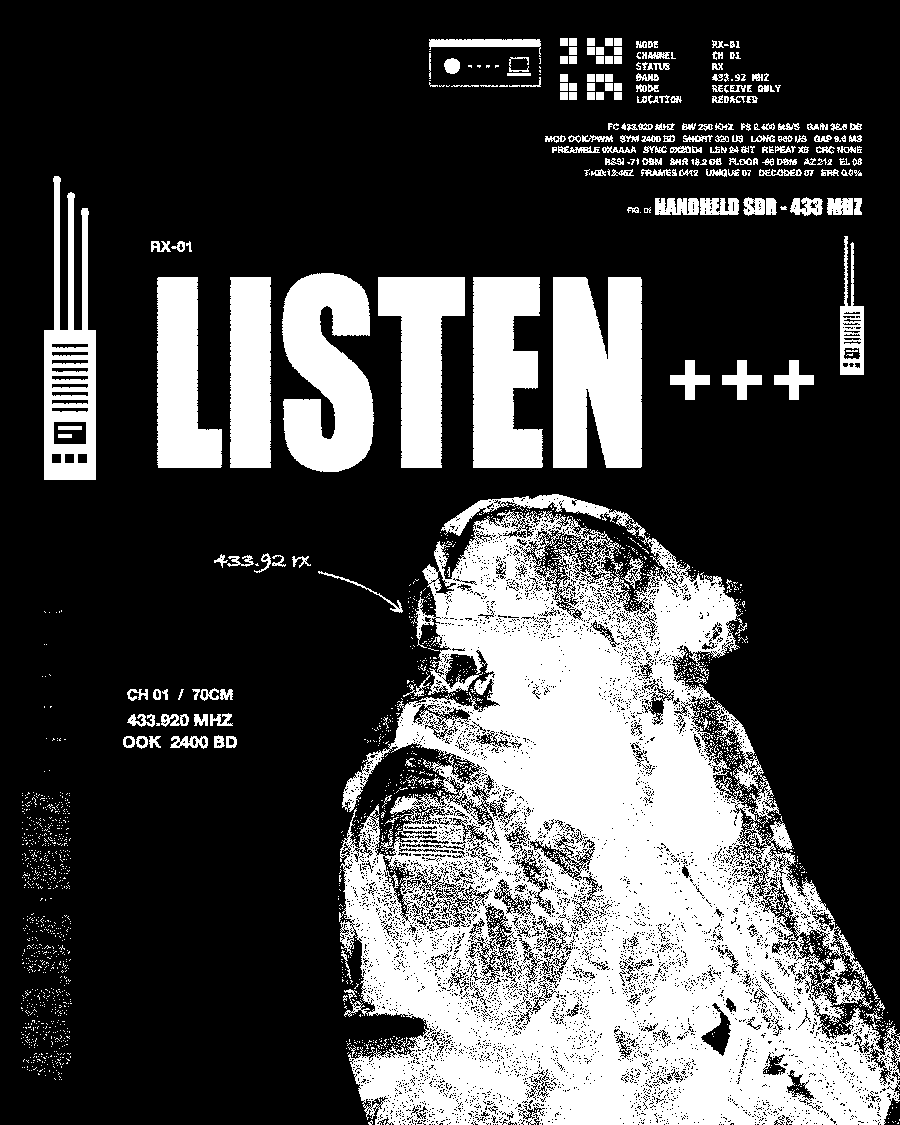
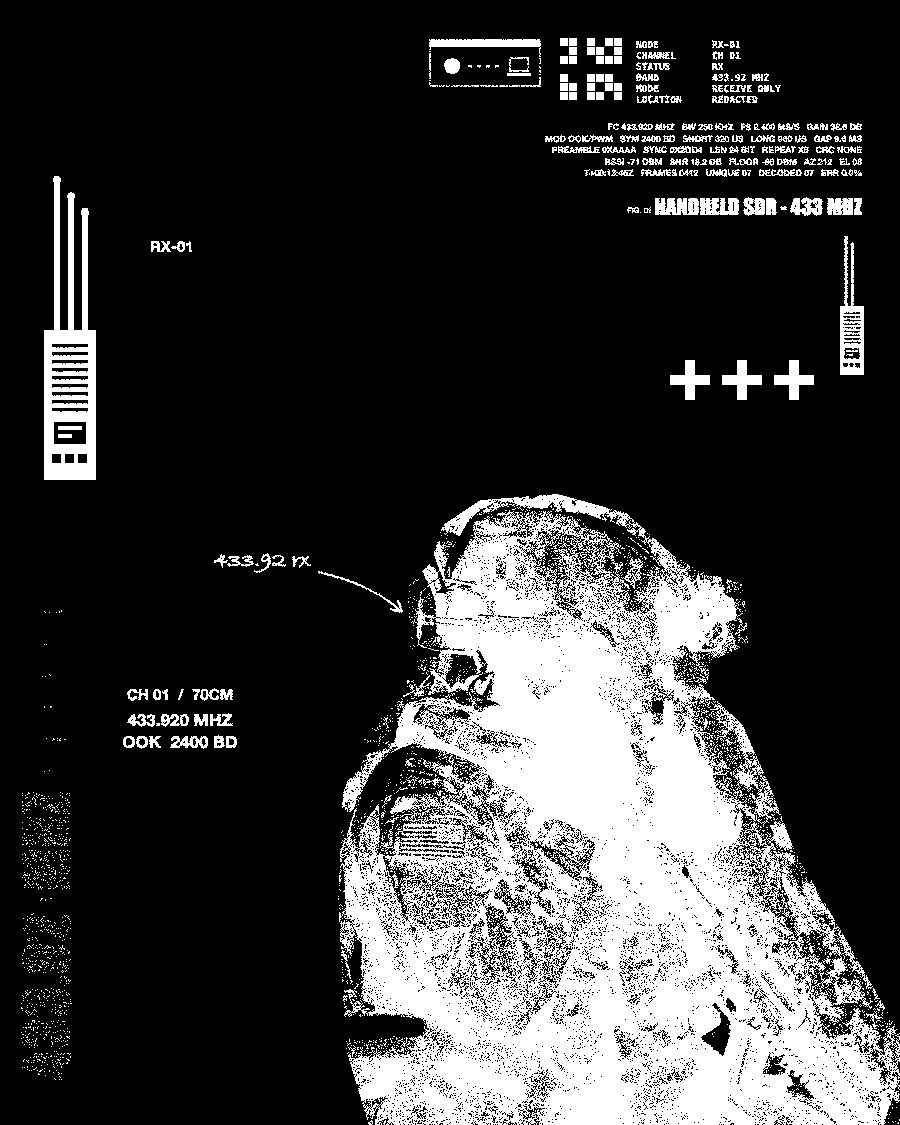
Drop ENIGMA and NOISE, quieter LISTEN and MAINFRAME

Changed region(s): [[0.1556, 0.2178, 0.7156, 0.4356]]

diff --git a/_sass/_vibe-sides.scss b/_sass/_vibe-sides.scss
@@ -154,12 +154,10 @@ html.vibe-wait .vibe-layer { opacity: 0; }
   .vibe-p--qr        { --m: url("../../images/vibe/hack-qr.svg?v=#{$vibe-v}");              --ar: 1; }
   /* Poster prints, laid on the paper scraps (tactical-poster language: heavy caps, +++, microtext). */
   .vibe-poster--sigint { --m: url("../../images/vibe/poster-sigint.svg?v=#{$vibe-v}"); --ar: 300 / 380; }
-  .vibe-poster--noise  { --m: url("../../images/vibe/poster-noise.svg?v=#{$vibe-v}");  --ar: 340 / 250; }
   .vibe-poster--2026   { --m: url("../../images/vibe/poster-2026.svg?v=#{$vibe-v}");   --ar: 340 / 250; }
   /* Accent-mark layers (stars, X marks, dials, +++): same box and colour as the piece underneath. */
   .vibe-red { --b: 0px; }
   .vibe-red.vibe-poster--sigint { --m: url("../../images/vibe/poster-sigint-red.svg?v=#{$vibe-v}"); }
-  .vibe-red.vibe-poster--noise  { --m: url("../../images/vibe/poster-noise-red.svg?v=#{$vibe-v}"); }
   .vibe-red.vibe-poster--2026   { --m: url("../../images/vibe/poster-2026-red.svg?v=#{$vibe-v}"); }
   .vibe-red.vibe-p--halftone    { --m: url("../../images/vibe/halftone-dots-red.svg?v=#{$vibe-v}"); }
   .vibe-red.vibe-p--notes       { --m: url("../../images/vibe/notes-scrawl-red.svg?v=#{$vibe-v}"); }
@@ -238,7 +236,6 @@ html.vibe-wait .vibe-layer { opacity: 0; }
   .vibe-ph--0day      { --m: url("../../images/vibe/poster-0day.png?v=#{$vibe-v}"); }
   .vibe-ph--cipher    { --m: url("../../images/vibe/poster-cipher.png?v=#{$vibe-v}"); }
   .vibe-ph--pivot     { --m: url("../../images/vibe/poster-pivot.png?v=#{$vibe-v}"); }
-  .vibe-ph--enigma    { --m: url("../../images/vibe/poster-enigma.png?v=#{$vibe-v}"); }
   .vibe-ph--mainframe { --m: url("../../images/vibe/poster-mainframe.png?v=#{$vibe-v}"); }
   .vibe-ph--core      { --m: url("../../images/vibe/poster-core.png?v=#{$vibe-v}"); }
   .vibe-ph--watched   { --m: url("../../images/vibe/poster-watched.png?v=#{$vibe-v}"); }
@@ -251,7 +248,7 @@ html.vibe-wait .vibe-layer { opacity: 0; }
   .vibe-slot--r2 { --sx: calc(95% - var(--sw)); --sy: clamp(1460px, 69%, 3500px); --r: -1.5deg; }
   .vibe-slot--l3 { --sx: 3%;                    --sy: clamp(1540px, 73%, 3700px); --r: 1.5deg; }
   /* Extra slots for long pages (certificates, guides): only once the page is tall enough (below). */
-  .vibe-slot--la { --sx: 3%;                    --sy: 41.5%; --r: -1.5deg; }
+  .vibe-slot--la { --sx: 5%;                    --sy: clamp(1100px, 52%, 3400px); --r: -1.5deg; }   /* NOISE's old spot; higher on long pages */
   .vibe-slot--lb { --sx: 4%;                    --sy: 85%; --r: 1deg; }
   .vibe-slot--ra { --sx: calc(96% - var(--sw)); --sy: 19%; --r: -2deg; }
   .vibe-slot--rb { --sx: calc(97% - var(--sw)); --sy: 54%; --r: 1.5deg; }
@@ -282,7 +279,6 @@ html.vibe-wait .vibe-layer { opacity: 0; }
     .vibe-ph--dish     { --x: -34%; --y: -12%; --w: 92%; --o: 0.22; --b: 0px; --r: -5deg; }
     .vibe-p--monitors  { --x: 6%;   --y: 0%;  --w: 68%; --r: -2deg; }
     .vibe-p--scrap2    { --x: 30%;  --y: 50%; --w: 72%; --r: 5deg; }
-    .vibe-poster--noise  { --x: 35%; --y: 53%; --w: 62%; --r: 5deg; }
     .vibe-p--radio     { --x: 46%;  --y: 40%; --w: 44%; --r: 7deg; }
     .vibe-p--tape      { --x: 50%;  --y: 39%; --w: 34%; --r: -14deg; }
     .vibe-p--hexdump   { --x: -4%;  --y: 80%; --w: 68%; --r: -4deg; }
@@ -397,9 +393,16 @@ html.vibe-wait .vibe-layer { opacity: 0; }
 
 @container vibe (min-width: 1680px) and (min-height: 2900px) {
   .vibe-slot--long { display: block !important; }
+  .vibe-slot--la { --sy: 41.5%; }
   /* sketches that sit under the long-page posters (measured on a certificate page at 1920px) */
   .vibe-kit--fieldkit, .vibe-kit-tape--fieldkit, .vibe-sec--fingerprint, .vibe-cluster--r1 .vibe-p--qr, .vibe-cluster--r1 .vibe-p--tape2,
   .vibe-x--eye, .vibe-sec--padlock, .vibe-cluster--r2 .vibe-p--pcb, .vibe-cluster--r2 .vibe-p--lockpick { display: none !important; }
+}
+
+/* Short pages: the left-middle poster sits in NOISE's old spot; clear the cluster under it. */
+@container vibe (min-width: 1680px) and (max-height: 2899.98px) {
+  .vibe-kit--fieldkit, .vibe-kit-tape--fieldkit, .vibe-cluster--l2 .vibe-ph--dish, .vibe-cluster--l2 .vibe-p--monitors,
+  .vibe-cluster--l2 .vibe-p--scrap2, .vibe-cluster--l2 .vibe-p--radio, .vibe-cluster--l2 .vibe-p--tape { display: none !important; }
 }
 
 /* ---------- Motion: scroll-driven depth (progressive enhancement, no JS) ---------- */

diff --git a/_includes/vibe-layer.html b/_includes/vibe-layer.html
@@ -6,7 +6,7 @@
   Styles: _sass/_vibe-sides.scss. Pieces marked --minor drop out on narrower gutters.
 {% endcomment %}
 {% comment %} Grain-print posters: three slots per page, a different rotation of the six per page. {% endcomment %}
-{% assign vibe_posters = "enigma,core,mainframe,intercept,watched,vapor,archive,orbit,backbone,pivot,array,cipher,exfil,0day,relay" | split: "," %}
+{% assign vibe_posters = "core,watched,mainframe,intercept,backbone,vapor,archive,orbit,pivot,array,cipher,exfil,0day,relay" | split: "," %}
 {% assign vn = vibe_posters | size %}
 {% if page.url == "/" %}{% assign vp0 = 0 %}{% else %}{% assign vh = 7 %}{% assign vchars = page.url | downcase | split: "" %}{% for c in vchars %}{% assign vi = "abcdefghijklmnopqrstuvwxyz0123456789-_./" | split: c | first | size %}{% assign vh = vh | times: 29 | plus: vi | modulo: 99991 %}{% endfor %}{% assign vp0 = vh | modulo: vn %}{% endif %}
 {% assign vp1 = vp0 | plus: 1 | modulo: vn %}{% assign vp2 = vp0 | plus: 2 | modulo: vn %}{% assign vp3 = vp0 | plus: 3 | modulo: vn %}
@@ -41,8 +41,6 @@
       <span class="vibe-ph vibe-ph--dish"></span>
       <span class="vibe-p vibe-p--monitors"></span>
       <span class="vibe-p vibe-p--scrap2"></span>
-      <span class="vibe-p vibe-poster vibe-poster--noise"></span>
-      <span class="vibe-p vibe-poster vibe-poster--noise vibe-red"></span>
       <span class="vibe-p vibe-p--radio"></span>
       <span class="vibe-p vibe-p--tape"></span>
       <span class="vibe-p vibe-p--hexdump"></span>
@@ -67,8 +65,8 @@
 
     <span class="vibe-p vibe-card vibe-slot vibe-slot--l3"></span>
     <span class="vibe-ph vibe-ph--{{ vibe_posters[vp2] }} vibe-slot vibe-slot--l3"></span>
-    <span class="vibe-p vibe-card vibe-slot vibe-slot--long vibe-slot--la"></span>
-    <span class="vibe-ph vibe-ph--{{ vibe_posters[vp3] }} vibe-slot vibe-slot--long vibe-slot--la"></span>
+    <span class="vibe-p vibe-card vibe-slot vibe-slot--la"></span>
+    <span class="vibe-ph vibe-ph--{{ vibe_posters[vp3] }} vibe-slot vibe-slot--la"></span>
     <span class="vibe-p vibe-card vibe-slot vibe-slot--long vibe-slot--lb"></span>
     <span class="vibe-ph vibe-ph--{{ vibe_posters[vp4] }} vibe-slot vibe-slot--long vibe-slot--lb"></span>
 
